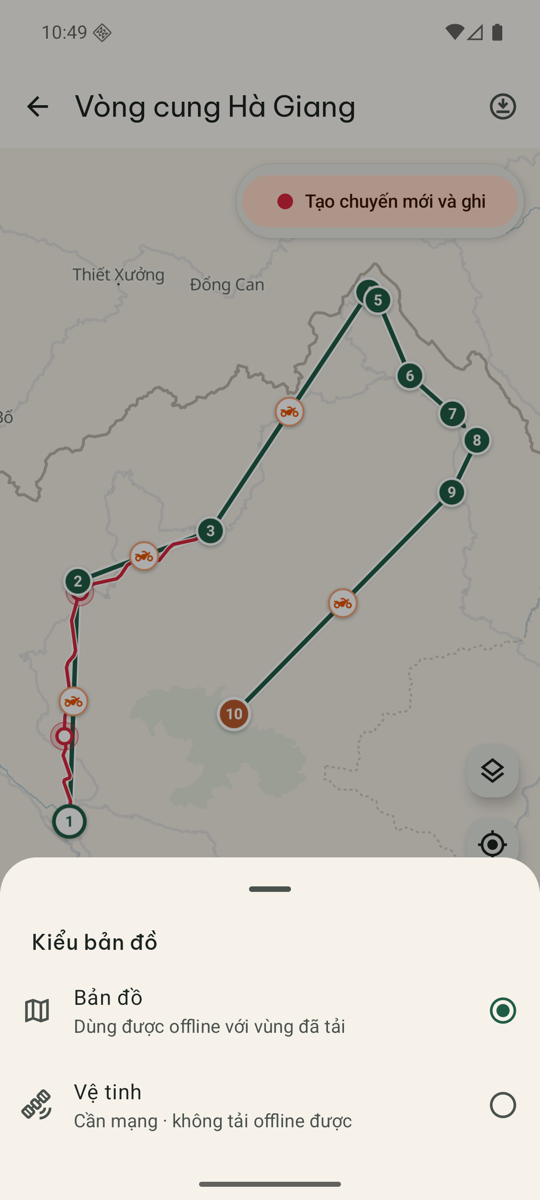
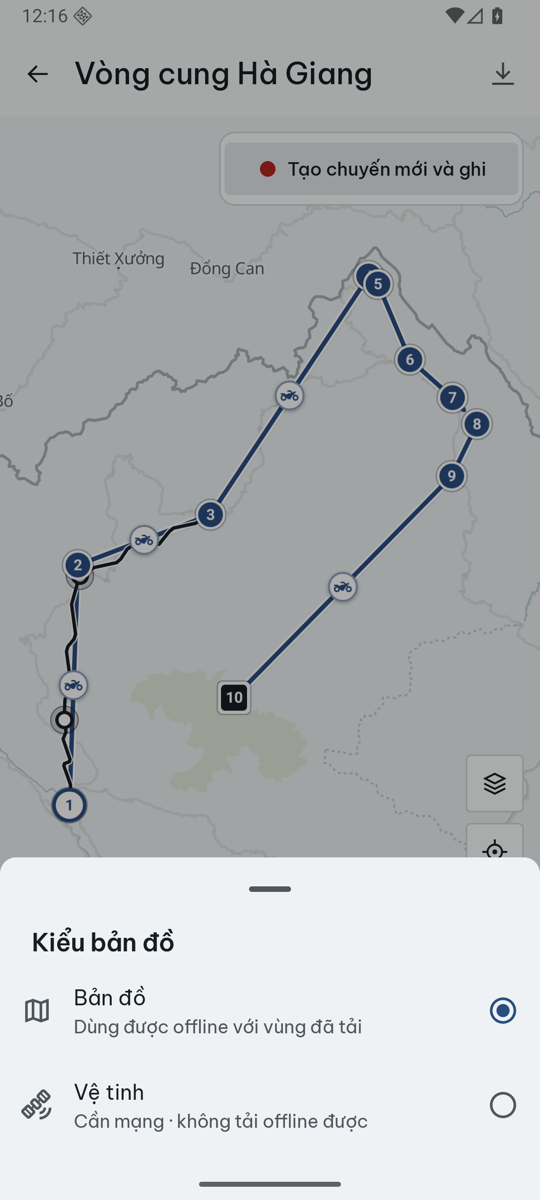
Retake feature screenshots reproducible with sample data (B4)

diff --git a/docs/03-screens.md b/docs/03-screens.md
@@ -710,6 +710,8 @@ B3, signature parts (docs/08 §5): `b3-before-*` from main at ecef295 (the B2 lo
 Still Material (docs/08 §10): leg-mode badge glyphs and small in-row icons; satellite label halo.
 
 Retaken in the atlas look (B4, separate AVD emulator-5594, debug sample data): 01–06, 08–21, 23–26.
+Also retaken: trip-detail-declutter/*, share-trip/01, 02, 04, 08, ux-flows/01, 04, 07,
+map-style/03, my-location/01, 02. The other feature folders still show the old look (docs/08 §10).
 Still the old green/clay look: 07 (the system Photo Picker, no app UI), 22 and 29–30 (need pushed
 EXIF photos), 27–28 (a historical upgrade from the v1 build).
 
@@ -723,9 +725,9 @@ EXIF photos), 27–28 (a historical upgrade from the v1 build).
 | 06-step-create.png | the empty new-step form (name, location, date and time, note, photos) |
 | 07-photo-picker.png | Android Photo Picker with 3 selected |
 | 08-trip-detail.png | detail: header map with route, title plate, km readout "139 km đường chim bay" + scale bar, counts, collapsed GPS card, Ngày 1 |
-| trip-detail-declutter/trip-detail-collapsed.png | Hà Giang detail: stats with "km / đường chim bay", collapsed "Hành trình GPS · 1 hành trình · 2 gợi ý", "Ngày 1" visible, one FAB "Thêm", Be Vietnam Pro title |
+| trip-detail-declutter/trip-detail-collapsed.png | Hà Giang detail: km readout "139 km đường chim bay" + scale bar, collapsed "Hành trình GPS · 1 hành trình · 2 gợi ý", "Ngày 1" visible, one FAB "Thêm", Be Vietnam Pro title |
 | trip-detail-declutter/gps-card-expanded.png | the card open on an ended trip: hint, "Tạo chuyến mới và ghi", track row, suggestions |
-| trip-detail-declutter/gps-card-scrolled.png | card just opened (scrolled to the top): title in the bar, FAB shrunk to "+", suggestion cards "gần TP Hà Giang, 9,7 km" with "Tạo điểm dừng ở đây" |
+| trip-detail-declutter/gps-card-scrolled.png | card just opened (scrolled to the top): title in the bar, FAB shrunk to "+", suggestion cards ("gần Mịch B (Tuyên Quang), 1,9 km") with "Tạo điểm dừng ở đây" |
 | trip-detail-declutter/trip-map-ended.png | Hà Giang trip map: "Tạo chuyến mới và ghi" instead of "Ghi hành trình" |
 | 09-trip-map-route.png | full trip map, numbered pins joined by the route, legs and track, card carousel |
 | 10-step-detail.png | step detail with photo, mini map |
@@ -777,7 +779,7 @@ EXIF photos), 27–28 (a historical upgrade from the v1 build).
 | share-trip/05-page-hagiang-chrome.png | the summary HTML pulled from `Download/LuTrinh`, headless Chrome with network blocked |
 | share-trip/06-airplane-image.png | airplane mode, app restarted: the image with the basemap from the offline pack |
 | share-trip/07-no-basemap.png | airplane mode, Ninh Bình (outside the pack): route on the plain background + the note |
-| share-trip/08-trip-list-card-menu.png | trip card ⋮ on the list: Sửa / Chia sẻ chuyến đi / Xóa |
+| share-trip/08-trip-list-card-menu.png | trip card ⋮ on the list: Sửa / Chia sẻ chuyến đi / Xuất GPX / Xóa (own icons) |
 | stop-suggest/05-trip-map-markers.png | sample Hà Giang track on the trip map: suggestion markers (white dot, crimson ring and halo) |
 | stop-photos/01-editor-explain-access.png | "Thêm điểm dừng" from the 09:05 suggestion: "Ảnh chụp trong lúc dừng" explains, "Cho phép xem ảnh" |
 | stop-photos/02-system-permission-dialog.png | Android 16 dialog "Allow limited access / Allow all / Don’t allow" |
@@ -795,7 +797,7 @@ EXIF photos), 27–28 (a historical upgrade from the v1 build).
 | ux-flows/05-from-photos-intro.png | "Thêm điểm dừng từ ảnh" intro sheet before the file picker |
 | ux-flows/06-from-photos-discard.png | "Bỏ các điểm dừng gợi ý?" after Back from the review |
 | ux-flows/07-location-picker-chips.png | location picker: "Vị trí của tôi" + the trip's steps as chips |
-| my-location/01-trip-map-my-location.png | trip map after "Vị trí của tôi" with `geo fix 105.85 21.03`: blue dot, camera on Hà Nội, the two stacked buttons |
+| my-location/01-trip-map-my-location.png | trip map after "Vị trí của tôi" with `geo fix 105.85 21.03`: chàm dot, camera on Hà Nội, the stacked square map buttons |
 | my-location/02-my-map-my-location.png | Bản đồ của tôi, same fix |
 | my-location/03-accuracy-circle-80m.png | same, from a temporary build forcing accuracy = 80 m (the emulator's fixes carry none) to check the accuracy circle's size |
 | my-location/04-permission-explanation.png | permission revoked: "Dùng vị trí của bạn?" |
